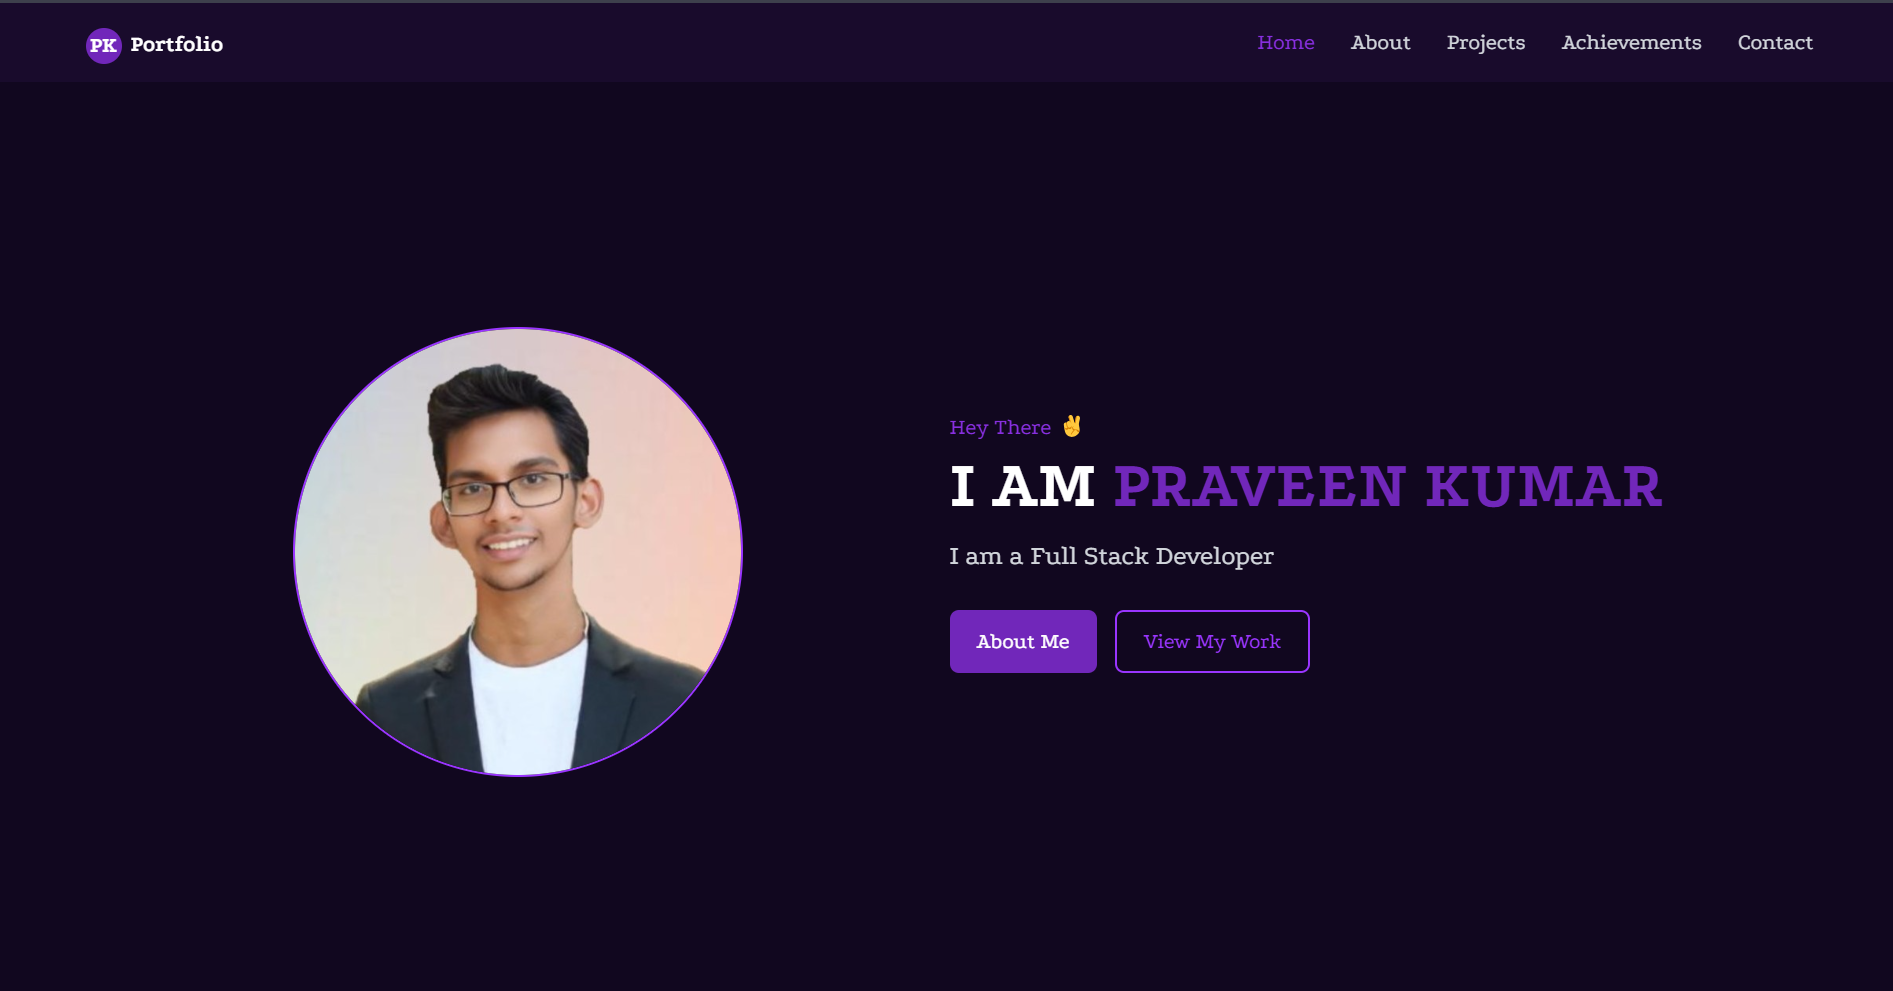
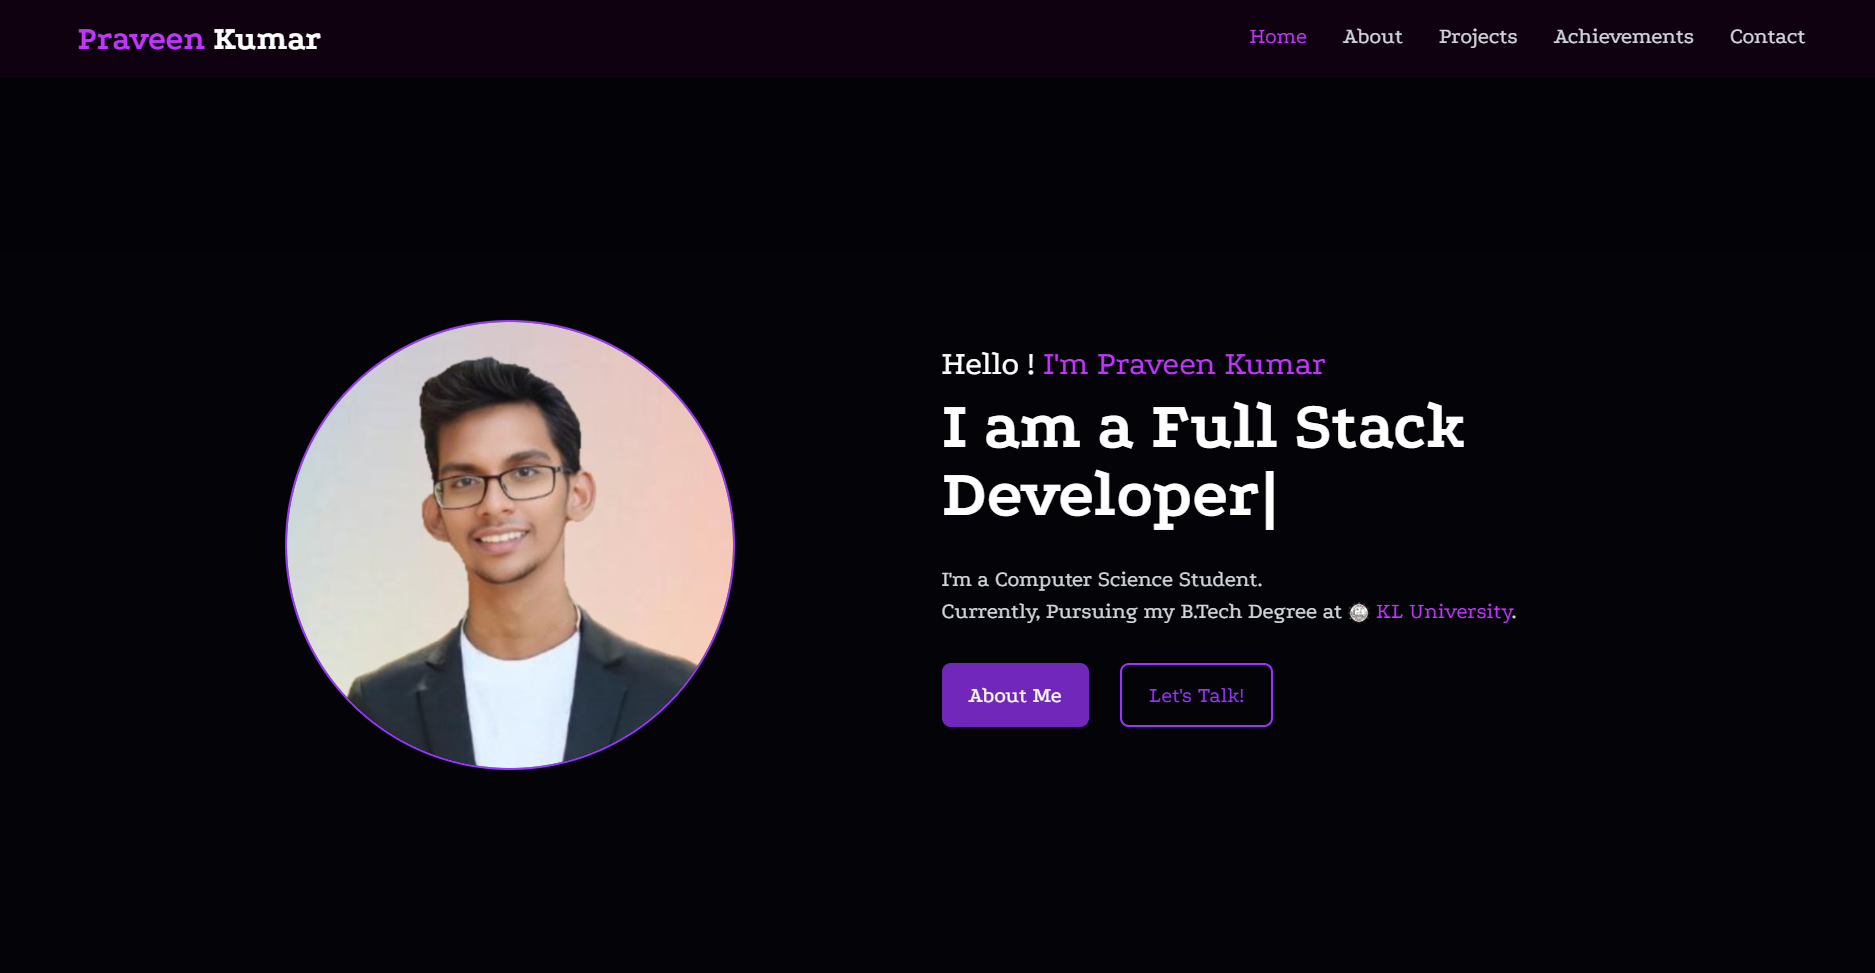
updated color gradient

diff --git a/src/pages/About.jsx b/src/pages/About.jsx
@@ -1,5 +1,5 @@
 import { motion } from "framer-motion";
-import { MapPin, Languages, Calendar, User, Briefcase } from "lucide-react";
+import { MapPin, Calendar } from "lucide-react";
 import StackIcon from "tech-stack-icons";
 
 const About = () => {
@@ -8,15 +8,15 @@ const About = () => {
       logo: "/education/klu.png",
       school: "Koneru Lakshmaiah Educational Foundation",
       degree: "B Tech in Computer Science & Engineering",
-      grade: "9.5 CGPA",
+      grade: "CGPA: 9.55",
       location: "Vijayawada, AP",
       period: "2022 - 2026",
     },
     {
       logo: "/education/chai.png",
       school: "Sree Chaitanya Junior College",
-      degree: "Intermediate",
-      grade: "861 Marks",
+      degree: "Intermediate in MPC",
+      grade: "Marks: 861",
       location: "Kavali, AP",
       period: "2020 - 2022",
     },
@@ -24,7 +24,7 @@ const About = () => {
       logo: "/education/school.png",
       school: "Sri Chaitanya Techno Curriculum",
       degree: "Secondary School",
-      grade: "599 Marks",
+      grade: "Marks: 599",
       location: "Kavali, AP",
       period: "upto 2020",
     },
@@ -43,18 +43,6 @@ const About = () => {
     { title: "Projects Completed", value: "5+" },
     { title: "Global Certifications", value: "2+" },
     { title: "Tech Stack Mastered", value: "4+ " },
-  ];
-
-  const personalDetails = [
-    {
-      icon: MapPin,
-      label: "From",
-      value: "Gowravaram, Kavali, Nellore, Andhra Pradesh, India",
-    },
-    { icon: Languages, label: "Languages", value: "English and Telugu" },
-    { icon: Calendar, label: "Age", value: "20" },
-    { icon: User, label: "Gender", value: "Male" },
-    { icon: Briefcase, label: "Work", value: "Student" },
   ];
 
   const techStack = [
@@ -89,7 +77,7 @@ const About = () => {
       initial={{ opacity: 0 }}
       animate={{ opacity: 1 }}
       exit={{ opacity: 0 }}
-      className="min-h-screen bg-[#11071f]/90 pt-20 px-3 sm:px-4"
+      className="min-h-screen bg-[#020305]/90 pt-20 px-3 sm:px-4"
     >
       <div className="container mx-auto">
         <motion.div
@@ -188,9 +176,16 @@ const About = () => {
                 <h3 className="text-xl font-semibold mb-2">{edu.school}</h3>
                 <p className="text-gray-400 mb-2">{edu.grade}</p>
                 <div className="flex justify-between text-sm text-gray-400">
-                  <span>{edu.location}</span>
-                  <span>{edu.period}</span>
-                </div>
+                  <span className="text-sm bg-[#7127ba]/20 text-[#e2d1fc] cursor-pointer px-3 py-1 rounded-full flex items-center gap-1">
+                    <MapPin className="w-4 h-4" />
+                      {edu.location}
+                  </span>
+                  
+                  <span className="text-sm bg-[#e2d1fc] text-[#000] cursor-pointer px-3 py-1 rounded-full flex items-center gap-1">
+                      <Calendar className="w-4 h-4" />
+                      {edu.period}
+                  </span>
+              </div>
               </motion.div>
             ))}
           </div>
@@ -219,7 +214,7 @@ const About = () => {
                       initial={{ width: 0 }}
                       animate={{ width: `${skill.level}%` }}
                       transition={{ duration: 1, delay: 0.8 }}
-                      className="h-full bg-[#9a35ff] rounded-full"
+                      className="h-full bg-[#6b25b2] rounded-full"
                     />
                   </div>
                 </div>
@@ -230,7 +225,7 @@ const About = () => {
                 <motion.div
                   key={index}
                   whileHover={{ scale: 1.05 }}
-                  className="bg-[#7127ba] p-6 rounded-lg text-center"
+                  className="bg-[#42166d] p-8 rounded-lg text-center"
                 >
                   <h3 className="text-3xl font-bold mb-2">{stat.value}</h3>
                   <p className="text-xs sm:text-xl text-gray-200">{stat.title}</p>

diff --git a/src/pages/Projects.jsx b/src/pages/Projects.jsx
@@ -12,7 +12,7 @@ const Projects = () => {
       title: "Personal Portfolio",
       image: "/project/portfolio.png",
       tech: ["Vite", "React", "JavaScript", "Tailwind"],
-      github: "https://github.com/avpkn25/Pet_Adoption",
+      github: "NA",
       live: "https://avpkn.vercel.app",
     },
     {
@@ -50,7 +50,7 @@ const Projects = () => {
       initial={{ opacity: 0 }}
       animate={{ opacity: 1 }}
       exit={{ opacity: 0 }}
-      className="min-h-screen bg-[#11071f]/90 pt-20 px-4"
+      className="min-h-screen bg-[#020305]/90 pt-20 px-4"
     >
       <div className="container mx-auto">
         <h1 className="text-4xl mt-9 text-center font-bold mb-12">
@@ -65,7 +65,7 @@ const Projects = () => {
               animate={{ y: 0, opacity: 1 }}
               transition={{ delay: index * 0.2 }}
               whileHover={{ y: -5 }}
-              className="bg-[#190b2c] rounded-lg overflow-hidden"
+              className="bg-[#11071f] rounded-lg overflow-hidden"
             >
               <div className="relative group">
                 <img
@@ -76,21 +76,25 @@ const Projects = () => {
                 
                 <div className="absolute inset-0 bg-[#190b2c]/80 opacity-0 group-hover:opacity-100 transition-opacity flex items-center justify-center">
                   <div className="flex space-x-4">
-                    <a
-                      href={project.github}
-                      target="_blank"
-                      rel="noopener noreferrer"
-                      className="bg-white text-[#7127ba] px-6 py-2 rounded-full flex items-center space-x-2 hover:bg-[#7127ba] hover:text-white transition-colors"
-                    >
-                      <span>Code</span>
-                      <Github size={20} />
-                    </a>
+                  {project.github !== "NA" ? (
+                      <a
+                        href={project.github}
+                        target="_blank"
+                        rel="noopener noreferrer"
+                        className="bg-[#e2d1fc] text-[#7127ba] px-6 py-2 rounded-full flex items-center space-x-2 hover:bg-[#7127ba] hover:text-white transition-colors"
+                      >
+                        <span>Code</span>
+                        <ExternalLink size={20} />
+                      </a>
+                    ) : (
+                      <a></a>
+                    )}
                     {project.live !== "NA" ? (
                       <a
                         href={project.live}
                         target="_blank"
                         rel="noopener noreferrer"
-                        className="bg-white text-[#7127ba] px-6 py-2 rounded-full flex items-center space-x-2 hover:bg-[#7127ba] hover:text-white transition-colors"
+                        className="bg-[#e2d1fc] text-[#7127ba] px-6 py-2 rounded-full flex items-center space-x-2 hover:bg-[#7127ba] hover:text-white transition-colors"
                       >
                         <span>Link</span>
                         <ExternalLink size={20} />

diff --git a/src/pages/Achievements.jsx b/src/pages/Achievements.jsx
@@ -76,7 +76,7 @@ const Achievements = () => {
       initial={{ opacity: 0 }}
       animate={{ opacity: 1 }}
       exit={{ opacity: 0 }}
-      className="min-h-screen bg-[#11071f]/90 pt-20 px-3 sm:px-4"
+      className="min-h-screen bg-[#020305]/90 pt-20 px-3 sm:px-4"
     >
       <div className="container mx-auto">
         <h1 className="text-4xl mt-9 font-bold text-center mb-12"> <span className='text-[#c135ff]'>My</span> Achievements</h1>
@@ -87,7 +87,7 @@ const Achievements = () => {
               initial={{ y: 20, opacity: 0 }}
               animate={{ y: 0, opacity: 1 }}
               transition={{ delay: index * 0.1 }}
-              className="relative bg-[#1e0f31] rounded-lg overflow-hidden shadow-lg group"
+              className="relative bg-[#11071f] rounded-lg overflow-hidden shadow-lg group"
             >
               <div className="w-full h-64 flex items-center justify-center overflow-hidden">
                 <img
@@ -97,7 +97,7 @@ const Achievements = () => {
                 />
               </div>
 
-              <div className="p-4 bg-[#42166d] text-white text-center text-lg font-semibold">
+              <div className="p-4 bg-[#1e0f31] text-white text-center text-lg font-semibold">
                 {achievement.title}
               </div>
               <div className="absolute inset-0 bg-[#190b2c]/80 flex items-center justify-center opacity-0 group-hover:opacity-100 transition-opacity">
@@ -105,7 +105,7 @@ const Achievements = () => {
                   href={achievement.proof}
                   target="_blank"
                   rel="noopener noreferrer"
-                  className="bg-white text-[#7127ba] px-6 py-2 rounded-full flex items-center space-x-2 hover:bg-[#7127ba] hover:text-white transition-colors"
+                  className="bg-[#e2d1fc] text-[#7127ba] px-6 py-2 rounded-full flex items-center space-x-2 hover:bg-[#7127ba] hover:text-white transition-colors"
                 >
                   <span>View</span>
                   <ExternalLink size={16} />

diff --git a/src/pages/Contact.jsx b/src/pages/Contact.jsx
@@ -42,7 +42,7 @@ const Contact = () => {
       initial={{ opacity: 0 }}
       animate={{ opacity: 1 }}
       exit={{ opacity: 0 }}
-      className="min-h-screen bg-[#11071f]/90 pt-20 px-4"
+      className="min-h-screen bg-[#020305]/90 pt-20 px-4"
     >
       <div className="container mt-9 mx-auto">
         <div className="max-w-4xl mx-auto">
@@ -55,7 +55,7 @@ const Contact = () => {
                 
                 <div className="flex items-center space-x-4">
                   <div className="bg-[#7127ba]/20 p-3 rounded-lg">
-                    <Phone className="text-[#c135ff]" />
+                    <Phone className="text-[#9a35ff]" />
                   </div>
                   <div>
                     <h3 className="text-lg font-semibold">Phone</h3>

diff --git a/src/components/Footer.jsx b/src/components/Footer.jsx
@@ -2,7 +2,7 @@ import { Linkedin, Instagram, Twitter, Github } from 'lucide-react';
 
 const Footer = () => {
   return (
-    <footer className="bg-[#1a0b2e]/90 text-gray-300 py-4 px-4">
+    <footer className="bg-[#110111]/90 text-gray-300 py-4 px-4">
       <div className="container mx-auto flex flex-col sm:flex-row justify-between items-center">
         <div className="flex space-x-4 mb-4 md:mb-0">
           <a href="https://www.linkedin.com/in/avpkn25/" target="_blank" rel="noopener noreferrer" className="hover:text-[#9a35ff] transition-colors">

diff --git a/src/components/Navbar.jsx b/src/components/Navbar.jsx
@@ -17,7 +17,7 @@ const Navbar = () => {
   ];
 
   return (
-    <nav className="fixed w-full bg-[#1a0b2e]/90 backdrop-blur-sm z-50 px-3 sm:px-4 py-4">
+    <nav className="fixed w-full bg-[#110111]/90 backdrop-blur-sm z-50 px-3 sm:px-4 py-4">
       <div className="container mx-auto flex justify-between items-center">
         <NavLink to="/" className="flex items-center space-x-2">
           <span className="text-white text-lg sm:text-3xl mt-1 font-bold">

diff --git a/src/pages/Home.jsx b/src/pages/Home.jsx
@@ -12,7 +12,7 @@ const Home = () => {
       initial={{ opacity: 0, y: 20 }}
       animate={{ opacity: 1, y: 0 }}
       exit={{ opacity: 0, y: -20 }}
-      className="min-h-screen bg-[#11071f]/90 pt-20 px-4 flex items-center"
+      className="min-h-screen bg-[#020305]/90 pt-20 px-4 flex items-center"
     >
       <div className="container mx-auto flex flex-col md:flex-row items-center justify-between">
         <div className="md:w-1/2 mb-8 md:mb-0">
